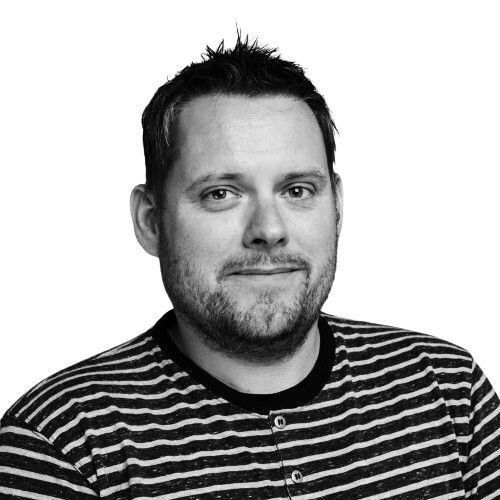
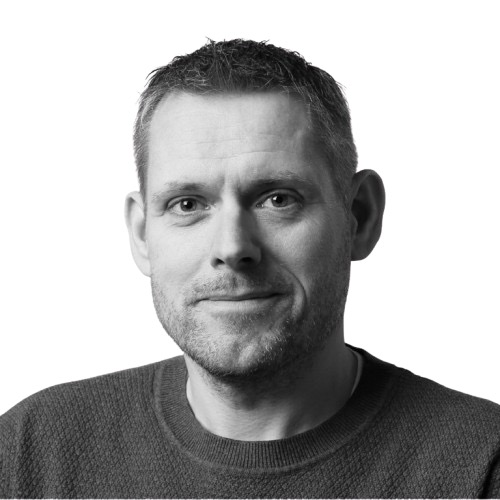
Update boardmembers

diff --git a/src/components/BoardMembers.tsx b/src/components/BoardMembers.tsx
@@ -1,4 +1,5 @@
 import Image from "next/image"
+import { User } from "lucide-react"
 import { BoardMemberType } from "../data/boardmembers"
 import { useTranslation } from "next-i18next"
 
@@ -8,13 +9,22 @@ const BoardMember = (props: BoardMemberType) => {
   return (
     <div className="flex flex-col items-center text-center">
       <div className="relative mx-auto h-[150px] w-[150px] shrink-0 overflow-hidden rounded-full">
-        <Image
-          src={`/img/styret/${props.img}`}
-          fill
-          className="object-cover"
-          alt={props.name}
-          sizes="150px"
-        />
+        {props.img ? (
+          <Image
+            src={`/img/styret/${props.img}`}
+            fill
+            className="object-cover"
+            alt={props.name}
+            sizes="150px"
+          />
+        ) : (
+          <div
+            className="flex h-full w-full items-center justify-center bg-neutral-200 text-neutral-500 dark:bg-neutral-800 dark:text-neutral-400"
+            aria-hidden
+          >
+            <User className="h-16 w-16" strokeWidth={1.25} />
+          </div>
+        )}
       </div>
       <h4 className="mt-3 font-semibold">{props.name}</h4>
       <p className="text-muted text-sm">{props.title ? t(props.title) : ""}</p>

diff --git a/src/data/boardmembers.ts b/src/data/boardmembers.ts
@@ -5,29 +5,24 @@ export type BoardMemberType = {
     | "Deputy Chairman"
     | "Financial Controller"
     | "Board Member"
-  img: string
+  img?: string
 }
 
 const members: BoardMemberType[] = [
   {
-    name: "Alexander Samsig",
+    name: "Anders Karlsen",
     title: "Chairman",
-    img: "alexander_samsig.jpg",
+    img: "anders_karlsen.jpg",
   },
   {
-    name: "Øyvind Løkling",
+    name: "Hilde Rødseth",
     title: "Deputy Chairman",
-    img: "øyvind_løkling.jpg",
+    img: "hilde_rødseth.jpg",
   },
   {
     name: "Rafael Winterhalter",
     title: "Financial Controller",
     img: "rafael_winterhalter.jpg",
-  },
-  {
-    name: "Dervis Mansuroglu",
-    title: "Board Member",
-    img: "dervis_mansuroglu.jpg",
   },
   {
     name: "Sandra Lekve",
@@ -45,9 +40,8 @@ const members: BoardMemberType[] = [
     img: "alexander_amiri.jpg",
   },
   {
-    name: "Sverre Moe",
+    name: "Ole Berg",
     title: "Board Member",
-    img: "sverre_moe.jpg",
   },
   {
     name: "Chris Searle",
